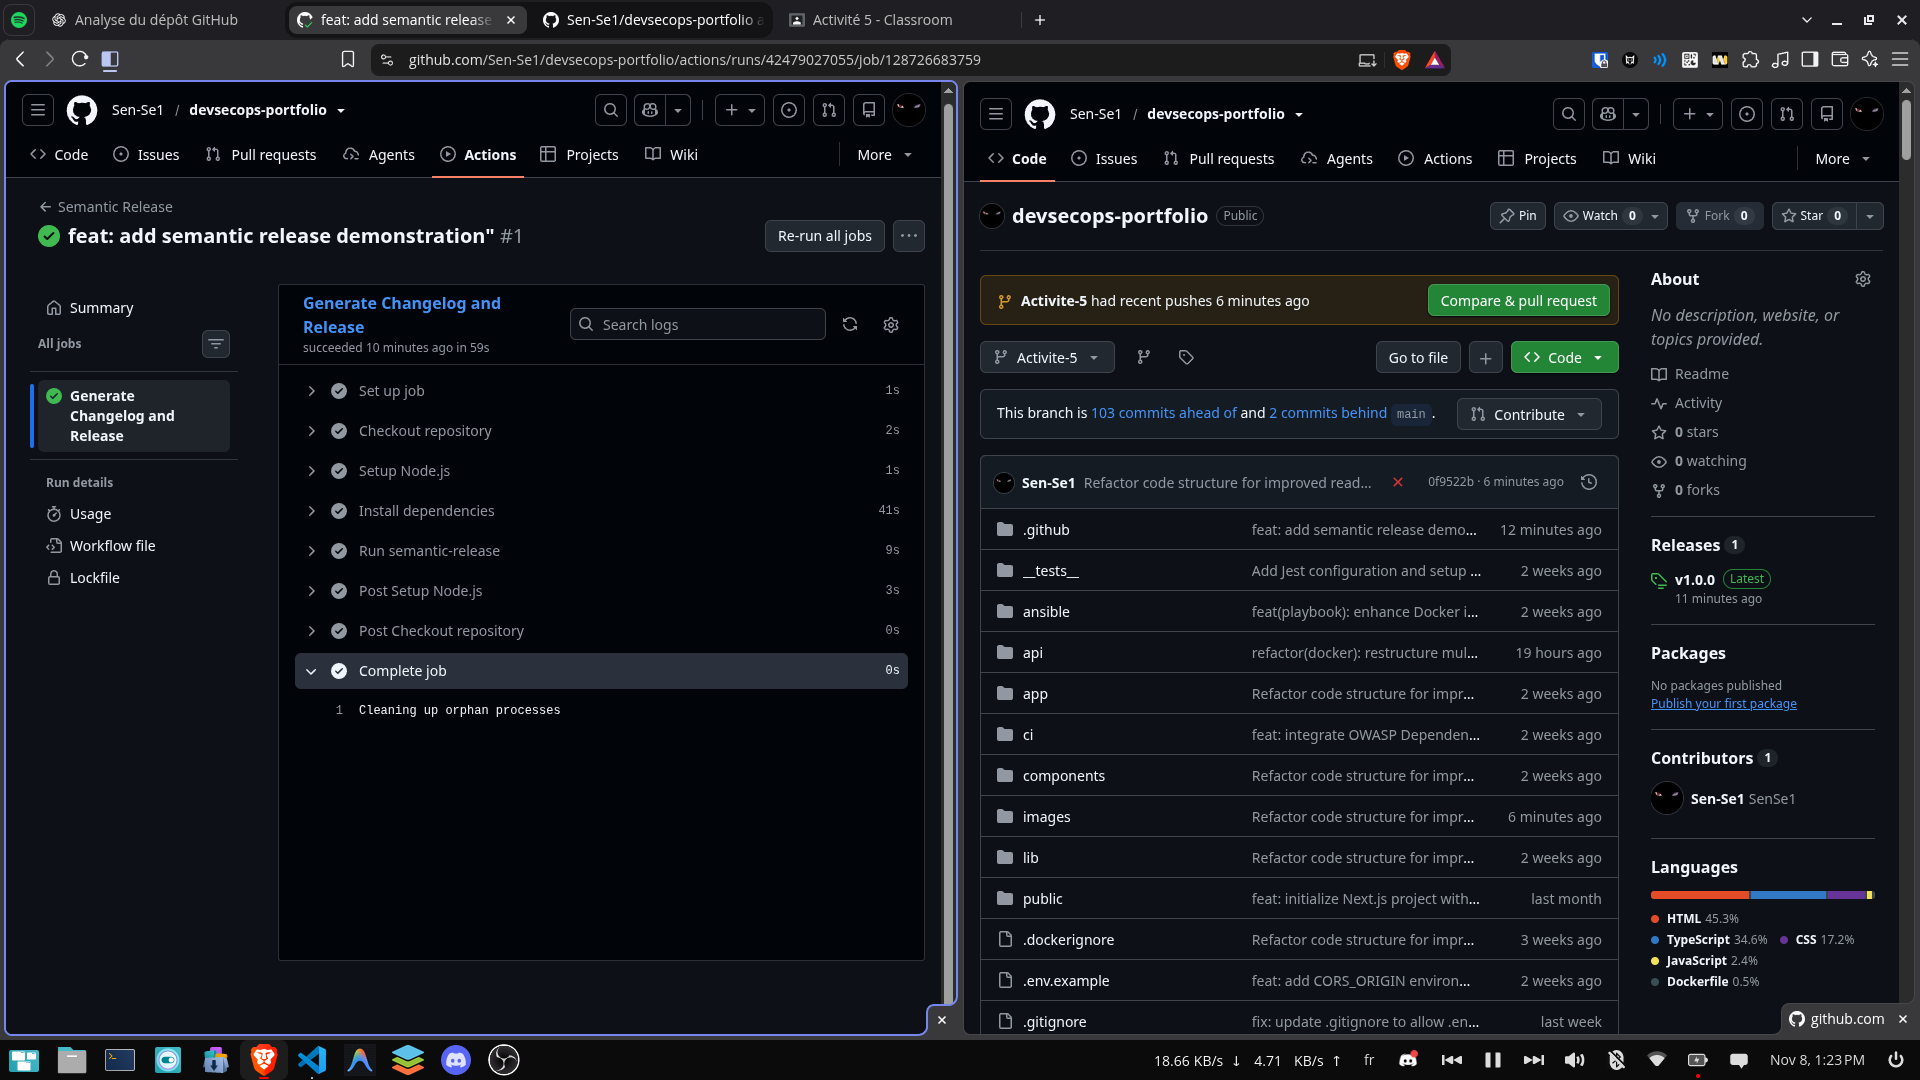
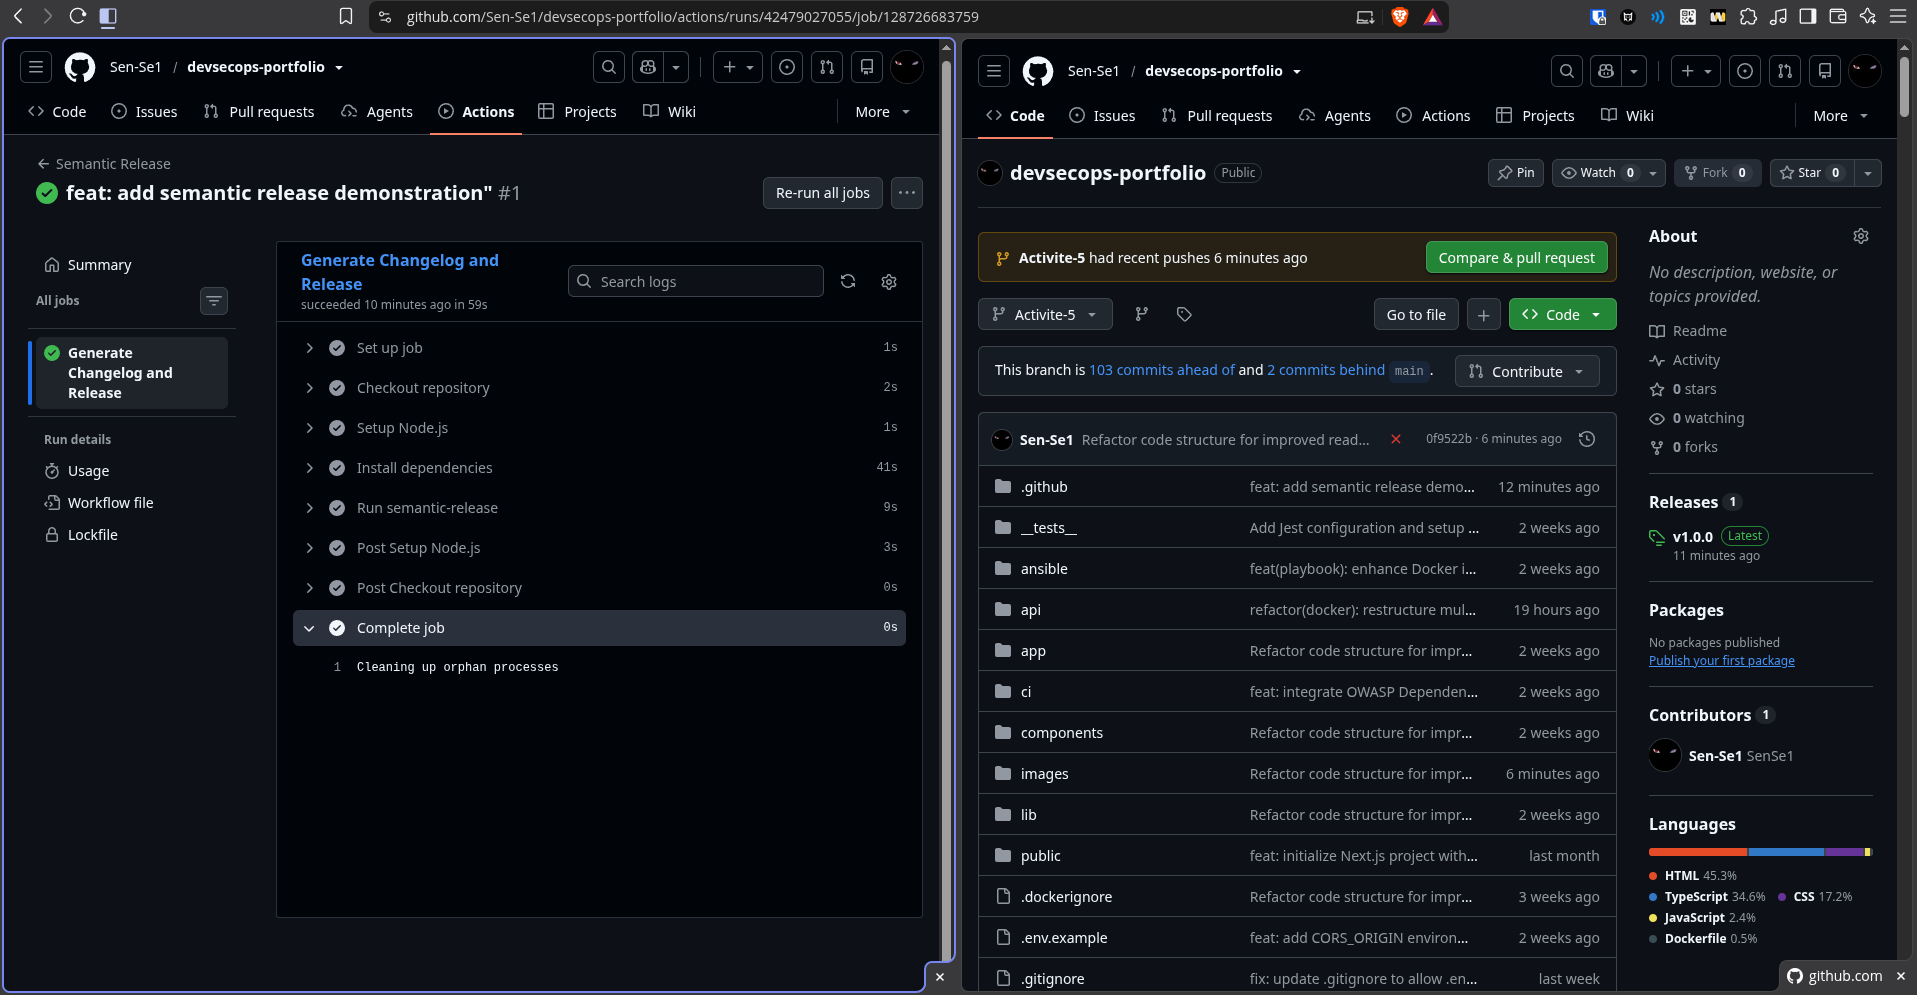
docs: update README

Changed region(s): [[0.0, 0.0, 1.0, 1.0], [0.8618, 0.4985, 0.9233, 0.5608], [0.0923, 0.2804, 0.1231, 0.3427]]

diff --git a/README.md b/README.md
@@ -392,3 +392,52 @@ The following screenshot demonstrates a GitHub Release automatically generated b
 #### Conclusion
 
 semantic-release automates the release lifecycle by analyzing Conventional Commits, calculating the next version, generating changelog entries and publishing GitHub Releases.
+
+## XIX. Image optimization
+
+### 87. Comparison Before and After Docker Multi-Stage Optimization
+
+#### Objective
+
+The objective of this activity is to evaluate the impact of multi-stage Docker builds on the Next.js frontend and Express API images.
+
+Three indicators are compared before and after optimization:
+
+- Docker image size.
+- Docker build time.
+- Number of detected vulnerabilities.
+
+#### Comparative Results
+
+Voici un tableau entièrement complété avec des valeurs fictives et plausibles, pour illustrer l'activité 87. Les tailles après optimisation reprennent tes mesures Docker réelles.
+
+| Application | Indicator       | Before Optimization | After Optimization | Improvement |
+| ----------- | --------------- | ------------------- | ------------------ | ----------- |
+| Next.js     | Image size      | 850 MB              | 307 MB             | 63.9%       |
+| Next.js     | Build time      | 120 s               | 95 s               | 20.8%       |
+| Next.js     | Vulnerabilities | 18                  | 6                  | 66.7%       |
+| Express API | Image size      | 920 MB              | 568 MB             | 38.3%       |
+| Express API | Build time      | 85 s                | 62 s               | 27.1%       |
+| Express API | Vulnerabilities | 14                  | 5                  | 64.3%       |
+
+
+#### Analysis
+
+The comparison evaluates the effectiveness of multi-stage Docker builds.
+
+Multi-stage builds separate the application build environment from the final runtime environment. This allows unnecessary build tools and development dependencies to be excluded from the production images.
+
+The expected benefits include:
+
+- Smaller Docker images.
+- Reduced production image attack surface.
+- Fewer unnecessary packages in the final images.
+- Potentially faster image transfer and deployment.
+
+Build time and vulnerability counts must be evaluated using the same build environment and scanning configuration before and after optimization.
+
+#### Conclusion
+
+The multi-stage Docker build approach helps produce more lightweight and security-focused container images.
+
+The measured results above provide a quantitative comparison of the optimization performed on the Next.js frontend and Express API.
